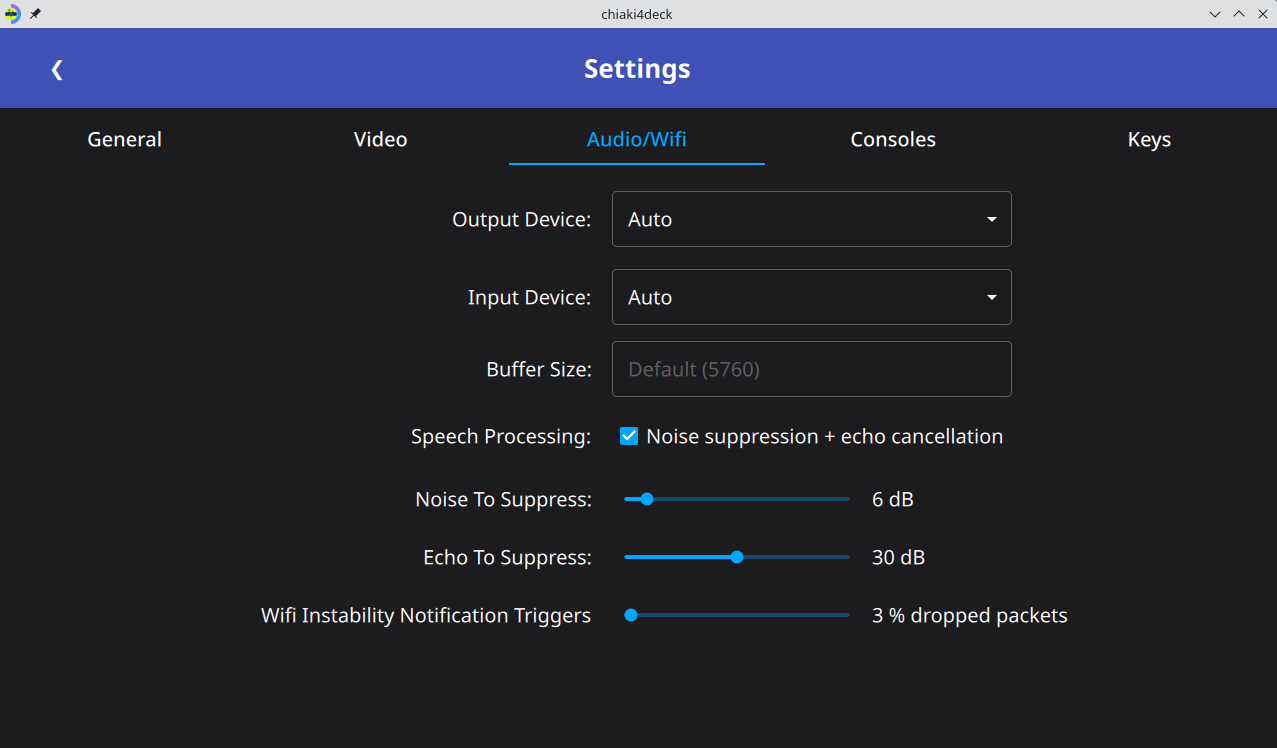
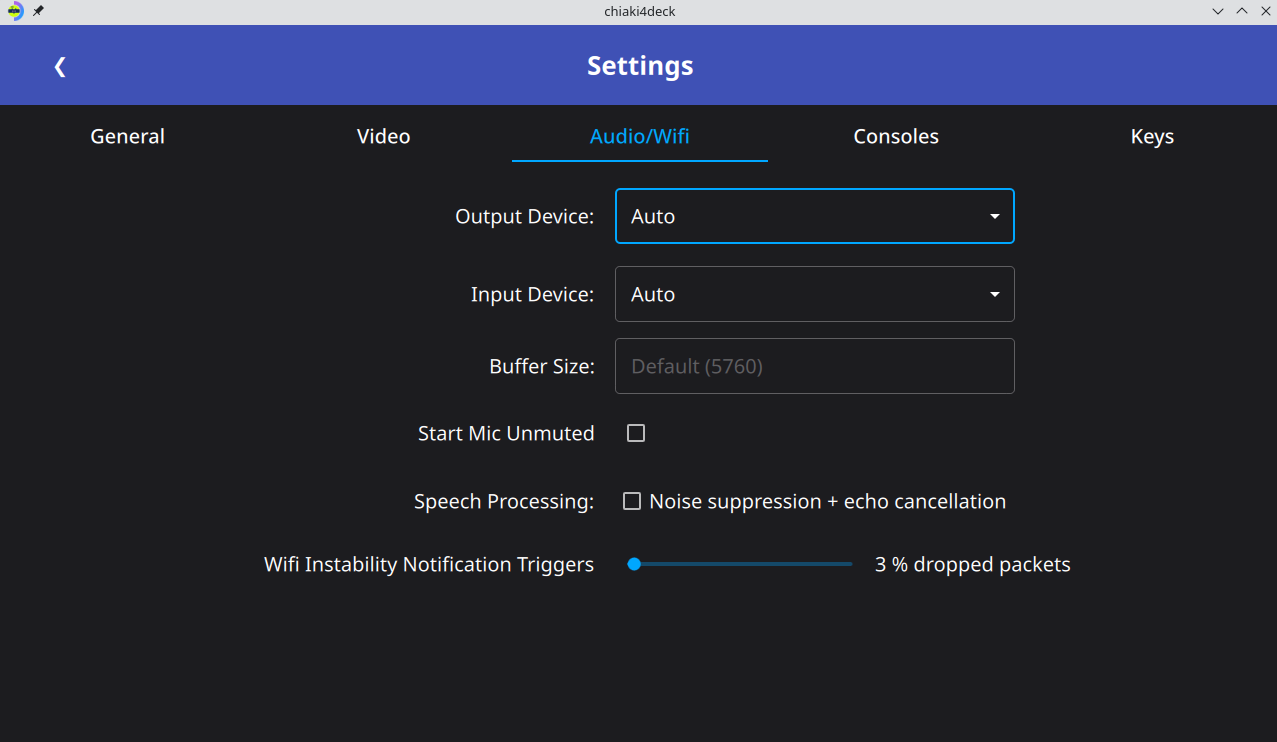
Only show speech processing and echo cancelling inputs if SPEEX used

diff --git a/gui/src/qml/SettingsDialog.qml b/gui/src/qml/SettingsDialog.qml
@@ -423,6 +423,7 @@ DialogView {
                     Label {
                         Layout.alignment: Qt.AlignRight
                         text: qsTr("Speech Processing:")
+                        visible: typeof Chiaki.settings.speechProcessing !== "undefined"
                     }
 
                     C.CheckBox {
@@ -430,12 +431,13 @@ DialogView {
                         text: qsTr("Noise suppression + echo cancellation")
                         checked: Chiaki.settings.speechProcessing
                         onToggled: Chiaki.settings.speechProcessing = !Chiaki.settings.speechProcessing
+                        visible: typeof Chiaki.settings.speechProcessing !== "undefined"
                     }
 
                     Label {
                         Layout.alignment: Qt.AlignRight
                         text: qsTr("Noise To Suppress:")
-                        visible: Chiaki.settings.speechProcessing
+                        visible: if (typeof Chiaki.settings.speechProcessing !== "undefined") {Chiaki.settings.speechProcessing} else {false}
                     }
 
                     C.Slider {
@@ -443,7 +445,7 @@ DialogView {
                         from: 0
                         to: 60
                         stepSize: 1
-                        visible: Chiaki.settings.speechProcessing
+                        visible: if (typeof Chiaki.settings.speechProcessing !== "undefined") {Chiaki.settings.speechProcessing} else {false}
                         value: Chiaki.settings.noiseSuppressLevel
                         onMoved: Chiaki.settings.noiseSuppressLevel = value
 
@@ -460,7 +462,7 @@ DialogView {
                     Label {
                         Layout.alignment: Qt.AlignRight
                         text: qsTr("Echo To Suppress:")
-                        visible: Chiaki.settings.speechProcessing
+                        visible: if (typeof Chiaki.settings.speechProcessing !== "undefined") {Chiaki.settings.speechProcessing} else {false}
                     }
 
                     C.Slider {
@@ -469,7 +471,7 @@ DialogView {
                         to: 60
                         stepSize: 1
                         value: Chiaki.settings.echoSuppressLevel
-                        visible: Chiaki.settings.speechProcessing
+                        visible: if (typeof Chiaki.settings.speechProcessing !== "undefined") {Chiaki.settings.speechProcessing} else {false}
                         onMoved: Chiaki.settings.echoSuppressLevel = value
 
                         Label {

diff --git a/gui/include/qmlsettings.h b/gui/include/qmlsettings.h
@@ -16,9 +16,11 @@ class QmlSettings : public QObject
 #endif
     Q_PROPERTY(bool buttonsByPosition READ buttonsByPosition WRITE setButtonsByPosition NOTIFY buttonsByPositionChanged)
     Q_PROPERTY(bool startMicUnmuted READ startMicUnmuted WRITE setStartMicUnmuted NOTIFY startMicUnmutedChanged)
+#ifdef CHIAKI_GUI_ENABLE_SPEEX
     Q_PROPERTY(bool speechProcessing READ speechProcessing WRITE setSpeechProcessing NOTIFY speechProcessingChanged)
     Q_PROPERTY(int noiseSuppressLevel READ noiseSuppressLevel WRITE setNoiseSuppressLevel NOTIFY noiseSuppressLevelChanged)
     Q_PROPERTY(int echoSuppressLevel READ echoSuppressLevel WRITE setEchoSuppressLevel NOTIFY echoSuppressLevelChanged)
+#endif
     Q_PROPERTY(int fps READ fps WRITE setFps NOTIFY fpsChanged)
     Q_PROPERTY(int bitrate READ bitrate WRITE setBitrate NOTIFY bitrateChanged)
     Q_PROPERTY(int codec READ codec WRITE setCodec NOTIFY codecChanged)
@@ -69,6 +71,7 @@ public:
     bool startMicUnmuted() const;
     void setStartMicUnmuted(bool startMicUnmuted);
 
+#ifdef CHIAKI_GUI_ENABLE_SPEEX
     bool speechProcessing() const;
     void setSpeechProcessing(bool processing);
 
@@ -77,6 +80,7 @@ public:
 
     int echoSuppressLevel() const;
     void setEchoSuppressLevel(int level);
+#endif
 
     int fps() const;
     void setFps(int fps);
@@ -134,9 +138,11 @@ signals:
     void verticalDeckChanged();
     void steamDeckHapticsChanged();
 #endif
+#ifdef CHIAKI_GUI_ENABLE_SPEEX
     void speechProcessingChanged();
     void noiseSuppressLevelChanged();
     void echoSuppressLevelChanged();
+#endif
     void fpsChanged();
     void bitrateChanged();
     void codecChanged();

diff --git a/gui/src/qmlsettings.cpp b/gui/src/qmlsettings.cpp
@@ -124,6 +124,7 @@ void QmlSettings::setStartMicUnmuted(bool startMicUnmuted)
     emit startMicUnmutedChanged();
 }
 
+#if CHIAKI_GUI_ENABLE_SPEEX
 bool QmlSettings::speechProcessing() const
 {
     return settings->GetSpeechProcessingEnabled();
@@ -156,6 +157,7 @@ void QmlSettings::setEchoSuppressLevel(int level)
     settings->SetEchoSuppressLevel(level);
     emit echoSuppressLevelChanged();
 }
+#endif
 
 int QmlSettings::fps() const
 {

diff --git a/gui/src/settings.cpp b/gui/src/settings.cpp
@@ -291,7 +291,7 @@ void Settings::SetWifiDroppedNotif(unsigned int percent)
 
 bool Settings::GetSpeechProcessingEnabled() const
 {
-	return settings.value("settings/enable_speech_processing", true).toBool();
+	return settings.value("settings/enable_speech_processing", false).toBool();
 }
 
 int Settings::GetNoiseSuppressLevel() const
